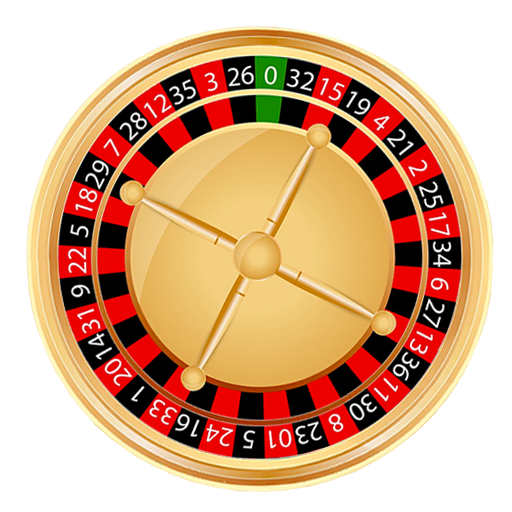
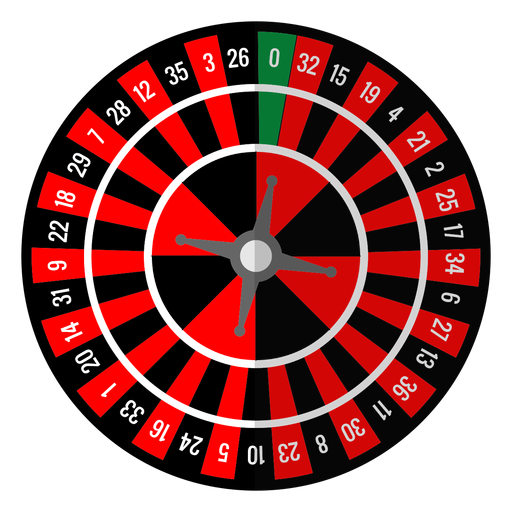
added eas.json for production build

diff --git a/components/Roulette.js b/components/Roulette.js
@@ -10,7 +10,6 @@ import {
   numbers1to18,
 } from "../utils/constants";
 import BettingBoard from "../components/BettingBoard";
-import { platform } from "../utils/constants";
 const height = Dimensions.get("window").height;
 const Roulette = ({ onResult }) => {
   const [isSpinning, setIsSpinning] = useState(false);
@@ -49,10 +48,9 @@ const Roulette = ({ onResult }) => {
 
   const arrowStyle = {
     position: "absolute",
-    top: height / (height > 900 ? 10.5 : height < 840 ? 50 : 9),
+    top: height / (height > 900 ? 10.5 : height > 860 ? 6.75 : height < 840 ? 50 : 9),
     left: Dimensions.get("window").width / 2.07,
   };
-  console.log(Dimensions.get("window").height);
 
   function getRouletteNumber(randomAngle) {
     for (let i = 0; i < rouletteWheelValues.length; i++) {
@@ -83,7 +81,7 @@ const Roulette = ({ onResult }) => {
     <SafeAreaView>
       <View style={styles.container}>
         <Animated.Image
-          source={require("../assets/roulette.png")}
+          source={require("../assets/roul-nobg.png")}
           resizeMode="contain"
           style={[styles.image, spinStyle]}
         />
@@ -119,6 +117,7 @@ const styles = StyleSheet.create({
     flex: 1,
     justifyContent: "center",
     alignItems: "center",
+    backgroundColor: 'gray'
   },
   image: {
     width: 350,

diff --git a/screens/Game.js b/screens/Game.js
@@ -14,7 +14,7 @@ const Game = () => {
     } else {
       winnerMessage = win ? "You Win" : "You Lose";
     }
-    setResult(result);
+    setResult(winnerMessage);
     setModalVisible(true);
   };
   const toggleModal = () => {
